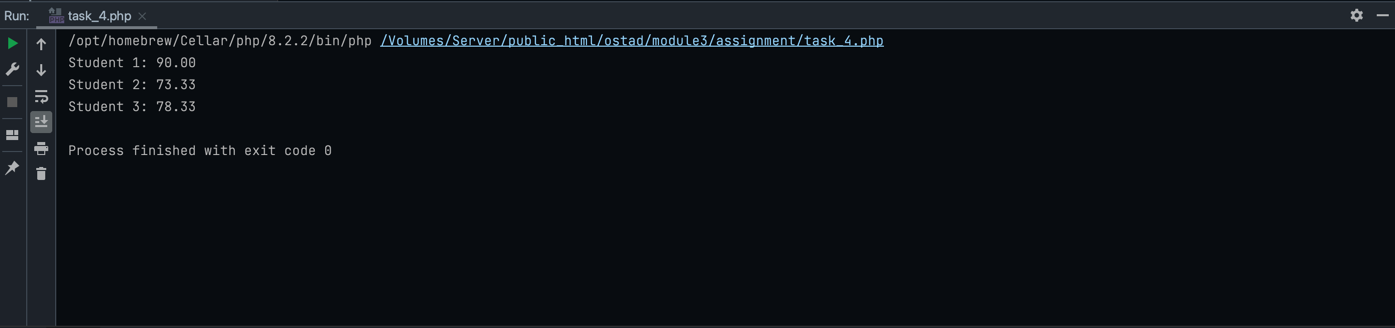
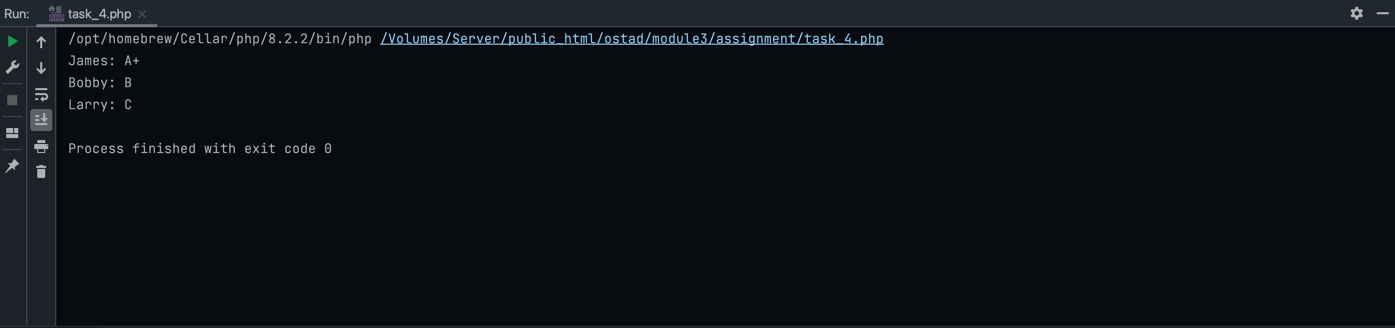
Module 3

Changed region(s): [[0.0, 0.0, 1.0, 0.5183]]

diff --git a/module3/assignment/task_4.php b/module3/assignment/task_4.php
@@ -4,8 +4,45 @@
 // has grades for three subjects: Math, English, and Science. Write a PHP function which takes"$studentGrades" as
 // an argument to calculate and print the average grade for each student.
 
+
+// Marks    Letter Grade    Grade Point
+// -----------------------------------
+// 80-100   A+              5
+// 70-79    A               4
+// 60-69    A-              3.5
+// 50-59    B               3
+// 40-49    C               2
+// 33-39    D               1
+// 0-32     F               0
+
 /**
- * Return students average grades an array.
+ * Returns the letter great by calculating the score.
+ *
+ * @param float|int $mark
+ * @return string
+ */
+function getLetterGrade(float|int $mark): string
+{
+    if ($mark >= 80) {
+        return "A+";
+    } elseif ($mark >= 70) {
+        return "A";
+    } elseif ($mark >= 60) {
+        return "A-";
+    } elseif ($mark >= 50) {
+        return "B";
+    } elseif ($mark >= 40) {
+        return "C";
+    } elseif ($mark >= 33) {
+        return "D";
+    } else {
+        return "F";
+    }
+}
+
+/**
+ * Return students average grades an associative array.
+ * Array key is student name and value is grade.
  *
  * @param array $array
  * @return array
@@ -15,8 +52,9 @@ function calculateAverageGrades(array $array): array
     $averageGrades = [];
 
     // Calculate the average grade for each student
-    foreach ($array as $row) {
-        $averageGrades[] = array_sum($row) / count($row);
+    foreach ($array as $studentName => $subjects) {
+        $averageMarks = array_sum($subjects) / count($subjects);
+        $averageGrades[$studentName] = getLetterGrade($averageMarks);
     }
 
     return $averageGrades;
@@ -24,15 +62,15 @@ function calculateAverageGrades(array $array): array
 
 // Create a multidimensional array of student grades
 $studentGrades = [
-    ["math" => 98, "english" => 82, "science" => 90],
-    ["math" => 68, "english" => 72, "science" => 80],
-    ["math" => 80, "english" => 79, "science" => 76]
+    "James" => ["math" => 98, "english" => 82, "science" => 90],
+    "Bobby" => ["math" => 68, "english" => 12, "science" => 80],
+    "Larry" => ["math" => 30, "english" => 39, "science" => 76]
 ];
 
 // Call the function to calculate average grades
 $result = calculateAverageGrades($studentGrades);
 
 // Printing the average grade of each student
-foreach ($result as $i => $grade) {
-    printf("Student %d: %0.2f\n", $i + 1, $grade);
+foreach ($result as $studentName => $letterGrade) {
+    echo "$studentName: $letterGrade\n";
 }

diff --git a/module3/assignment/task_5.php b/module3/assignment/task_5.php
@@ -16,10 +16,9 @@ function generatePassword(int $length): string
     $lowercaseChars = "abcdefghijklmnopqrstuvwxyz";
     $uppercaseChars = "ABCDEFGHIJKLMNOPQRSTUVWXYZ";
     $numericChars = "0123456789";
-    $specialChars = '!@#$%^&*()_+';
+    $specialChars = "!@#$%^&*()_+";
 
     $allChars = $lowercaseChars . $uppercaseChars . $numericChars . $specialChars;
-
     $totalChars = strlen($allChars);
 
     $password = "";
@@ -27,6 +26,16 @@ function generatePassword(int $length): string
     for ($i = 0; $i < $length; $i++) {
         $randomIndex = mt_rand(0, $totalChars - 1);
         $password .= $allChars[$randomIndex];
+    }
+
+    $condition = preg_match("/[$lowercaseChars]/", $password) &&
+        preg_match("/[$uppercaseChars]/", $password) &&
+        preg_match("/[$numericChars]/", $password) &&
+        preg_match("/[$specialChars]/", $password);
+
+    if ($condition == false) {
+        // Generate a new password and return it
+        return generatePassword($length);
     }
 
     return $password;
